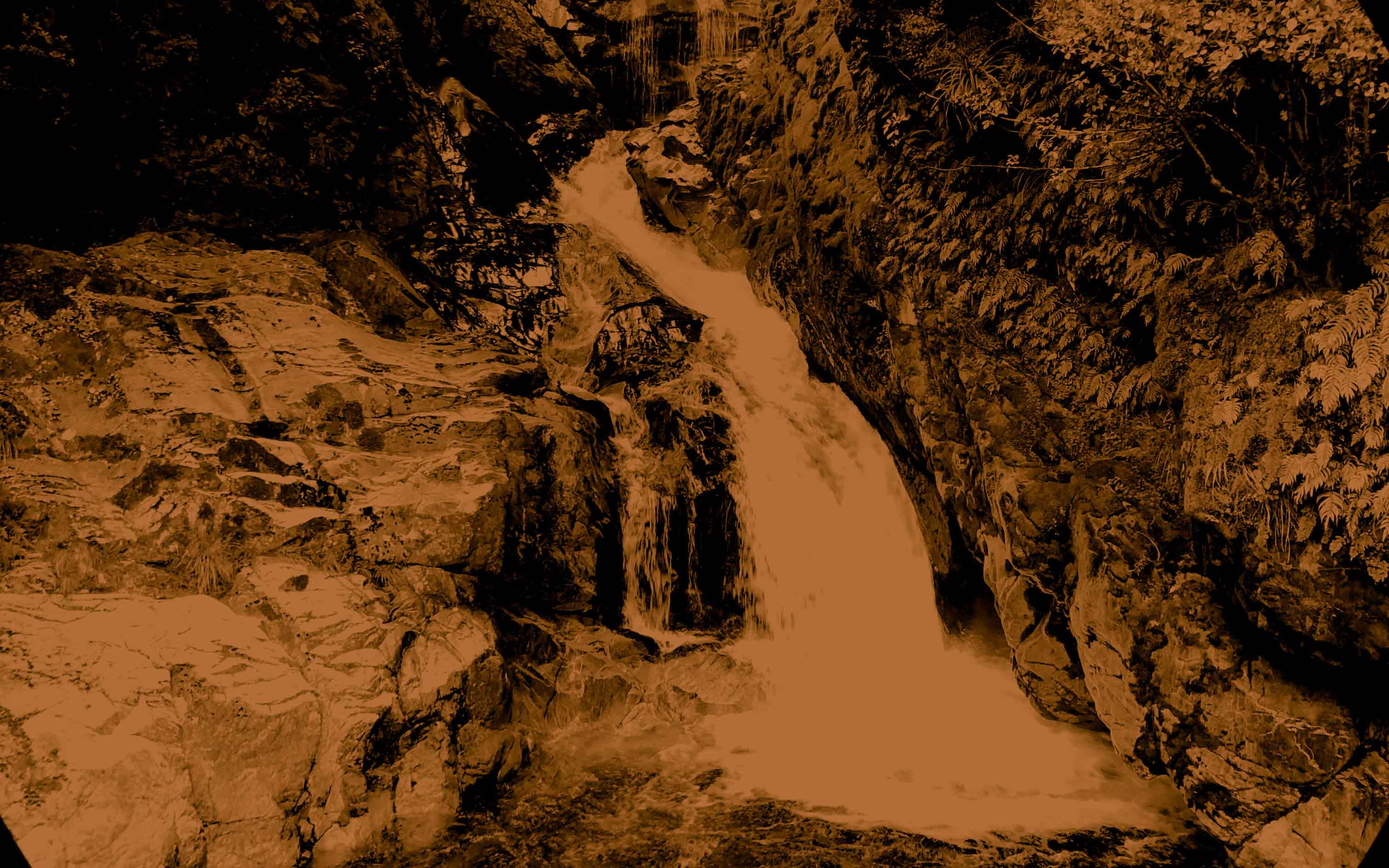
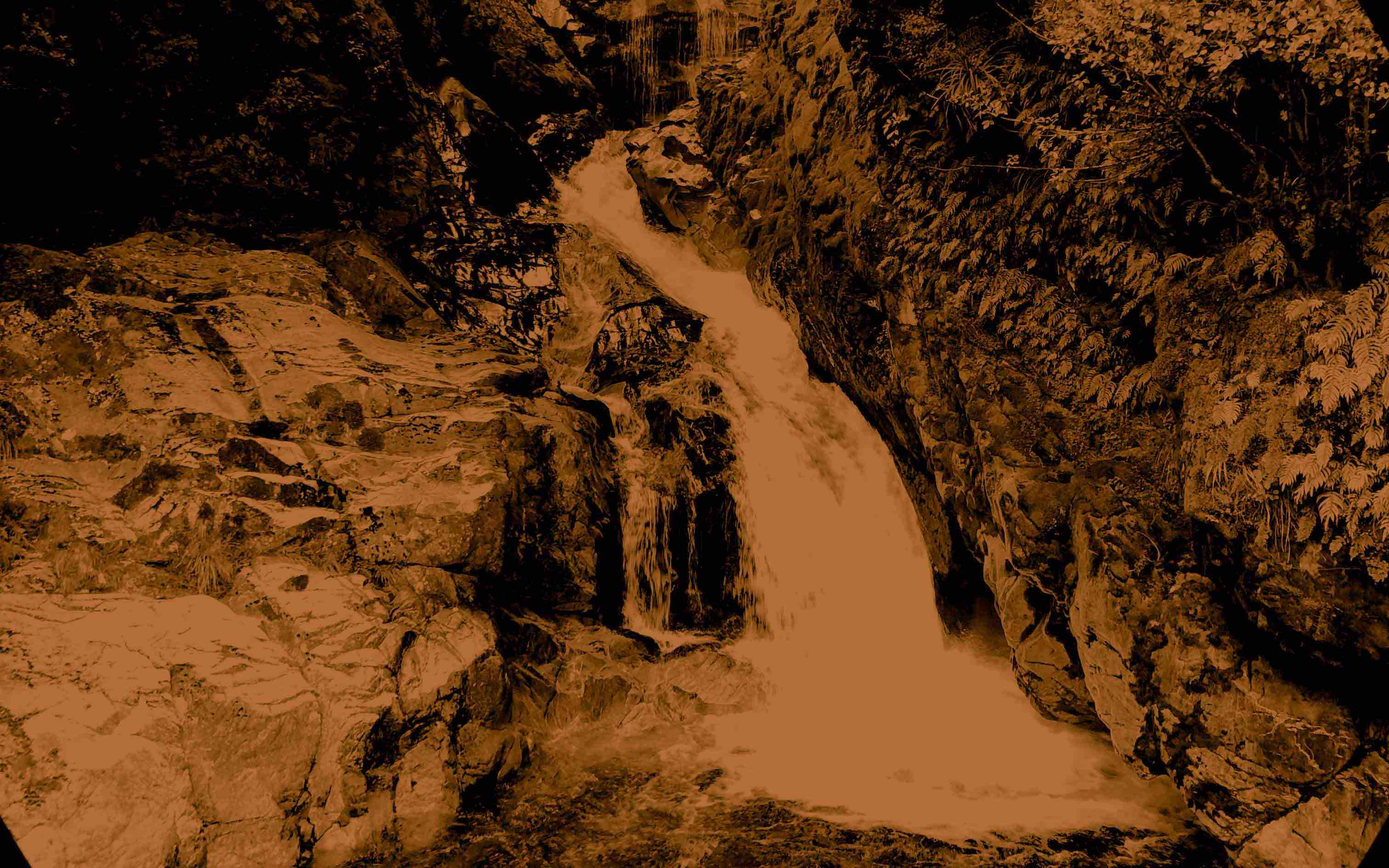
Scaled the images down and made them more mobile friendly. Cleaned up CSS.

diff --git a/static/style.css b/static/style.css
@@ -6,19 +6,15 @@
   100% {opacity: 0;}
 }
 
-@keyframes highlight {
-  from {
-    background-color: #323232;
-    background-color: rgba(50, 50, 50, 0.75);
-  }
-  to {
-    background-color: rgb(160, 78, 31);
-    background-color: rgba(160, 78, 31, 0.75);
-  }
-}
-
 html, body, #container, #wrap, .main {
   min-height: 100%;
+  --accent-color: #8a8a8a;
+  --text-color: #000;
+  --nav-text-color: #f2f2f2;
+  --background-color: #323232;
+  --background-color-fade: rgba(50, 50, 50, 0.75);
+  --White-color: white;
+  --nav-height: 3rem;
 }
 
 div {
@@ -26,18 +22,22 @@ div {
 }
 
 #container {
-  background-image: url("images/background-image.jpg");
+  background-image: url("images/background-image-phone.jpg");
   background-size: cover;
+}
+
+@media (min-width: 500px) {
+  #container {
+    background-image: url("images/background-image.jpg");
+    background-size: cover;
+  }
 }
 
 html, body {
   height: 100%;
   margin: 0;
   padding: 0;
-  background-color: #323232;
-  --accent-color: #8a8a8a;
-  --text-color: #000;
-  --nav-text-color: #f2f2f2;
+  background-color: var(--background-color);
 }
 
 body, button {
@@ -45,10 +45,14 @@ body, button {
   font-weight: 300;
 }
 
+.main {
+  padding-top: var(--nav-height);
+}
+
 #animate.run {
   animation: switch-text 2s 1;
-  min-height: 120px;
-  font-size: 5rem;
+  min-height: 10vmax;
+  font-size: 7vmax;
 }
 
 .generated {
@@ -56,15 +60,15 @@ body, button {
   margin: 0;
   padding: 15vh 0 0 0;
   text-align: center;
-  font-size: 3rem;
-  min-height: 80px;
+  font-size: 5vmax;
+  min-height: 6vmax;
 }
 
 .egg-view {
   margin: 0;
   padding: 5vh 0 0 0;
   text-align: center;
-  font-size: 5.125rem;
+  font-size: 6vmax;
   min-height: 70px;
 }
 
@@ -77,20 +81,17 @@ a {
   text-decoration: none;
 }
 
+/* Navigation Bar */
+
 .nav {
   width: 100%;
-  --nav-height: 3rem;
   text-align: center;
-  background-color: rgb(50, 50, 50);
-  background-color: rgba(50, 50, 50, 0.75);
+  background-color: var(--background-color);
+  background-color: var(--background-color-fade);
   line-height: var(--nav-height);
+  height: var(--nav-height);
   position: fixed;
   top: 0;
-  height: var(--nav-height);
-}
-
-.main {
-  padding-top: 3rem;
 }
 
 .nav ul {
@@ -98,18 +99,23 @@ a {
   margin: 0;
   padding: 0;
 }
+
 .nav li {
   display: inline-block;
   font-size: 100%;
-  padding: 0 5%;
+  padding: 0 5vmin;
   opacity: 1;
 }
+
 .nav a {
   color: var(--nav-text-color);
 }
+
 .nav a:hover {
   color: var(--accent-color);
 }
+
+/* Footer */
 
 .botton-bar ul {
   list-style-type: none;
@@ -118,19 +124,18 @@ a {
 .bottom-bar li {
   display: inline-block;
   padding: 0 0.5rem;
-  font-size: 0.75rem;
 }
 
 .bottom-bar {
   position: fixed;
-  background-color: #f2f2f2;
+  background-color: var(--nav-text-color);
   right: 0;
   bottom: 0;
   left: 0;
   padding-right: 40px;
   text-align: center;
   opacity: 0.75;
-  height: 3rem;
+  height: var(--nav-height);
 }
 
 .icon-images {
@@ -142,6 +147,8 @@ a {
 .icon-images:hover {
   transform: scale(1.2);
 }
+
+/* CSS Grid */
 
 .wrapper {
   display: grid;
